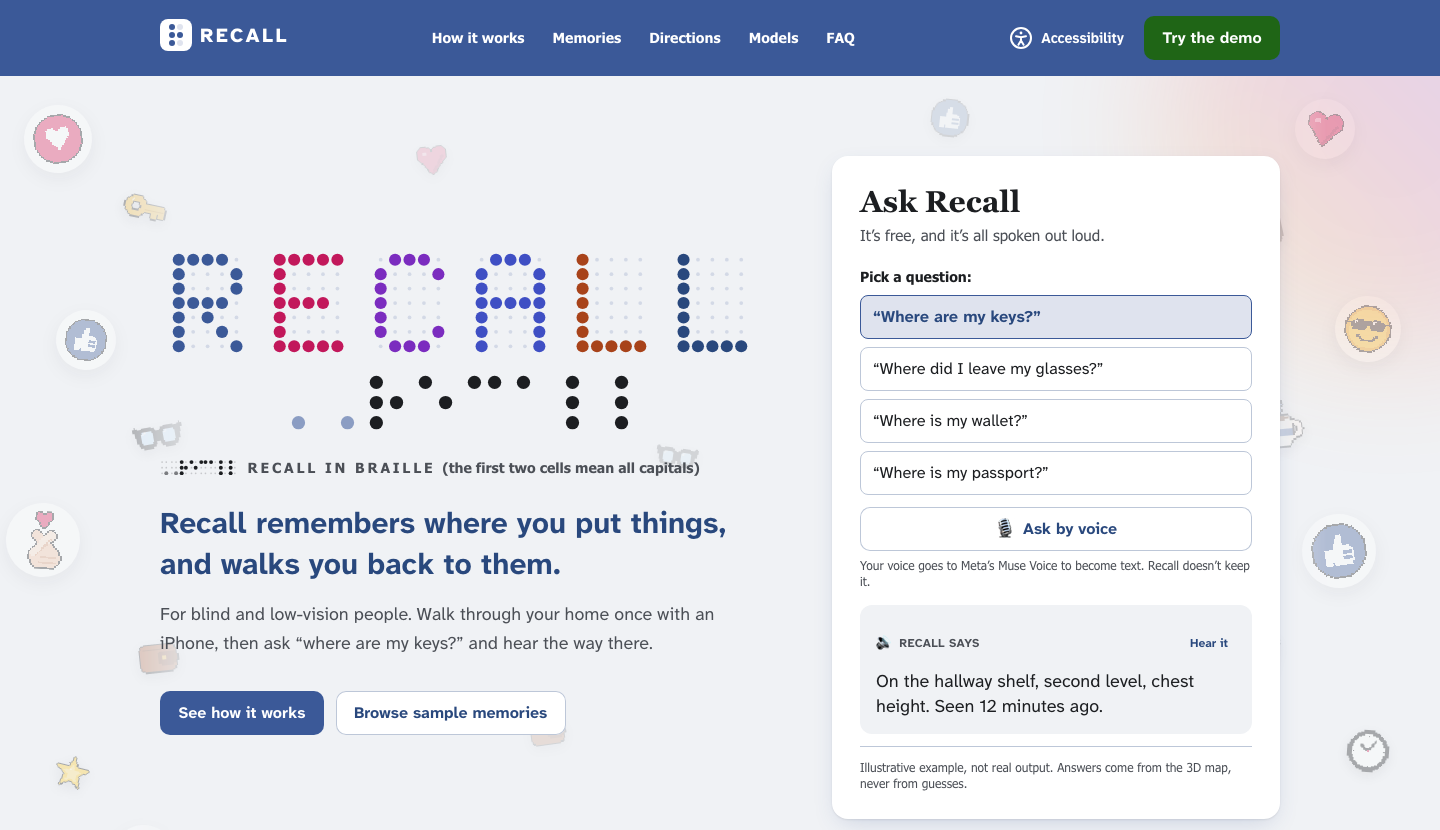
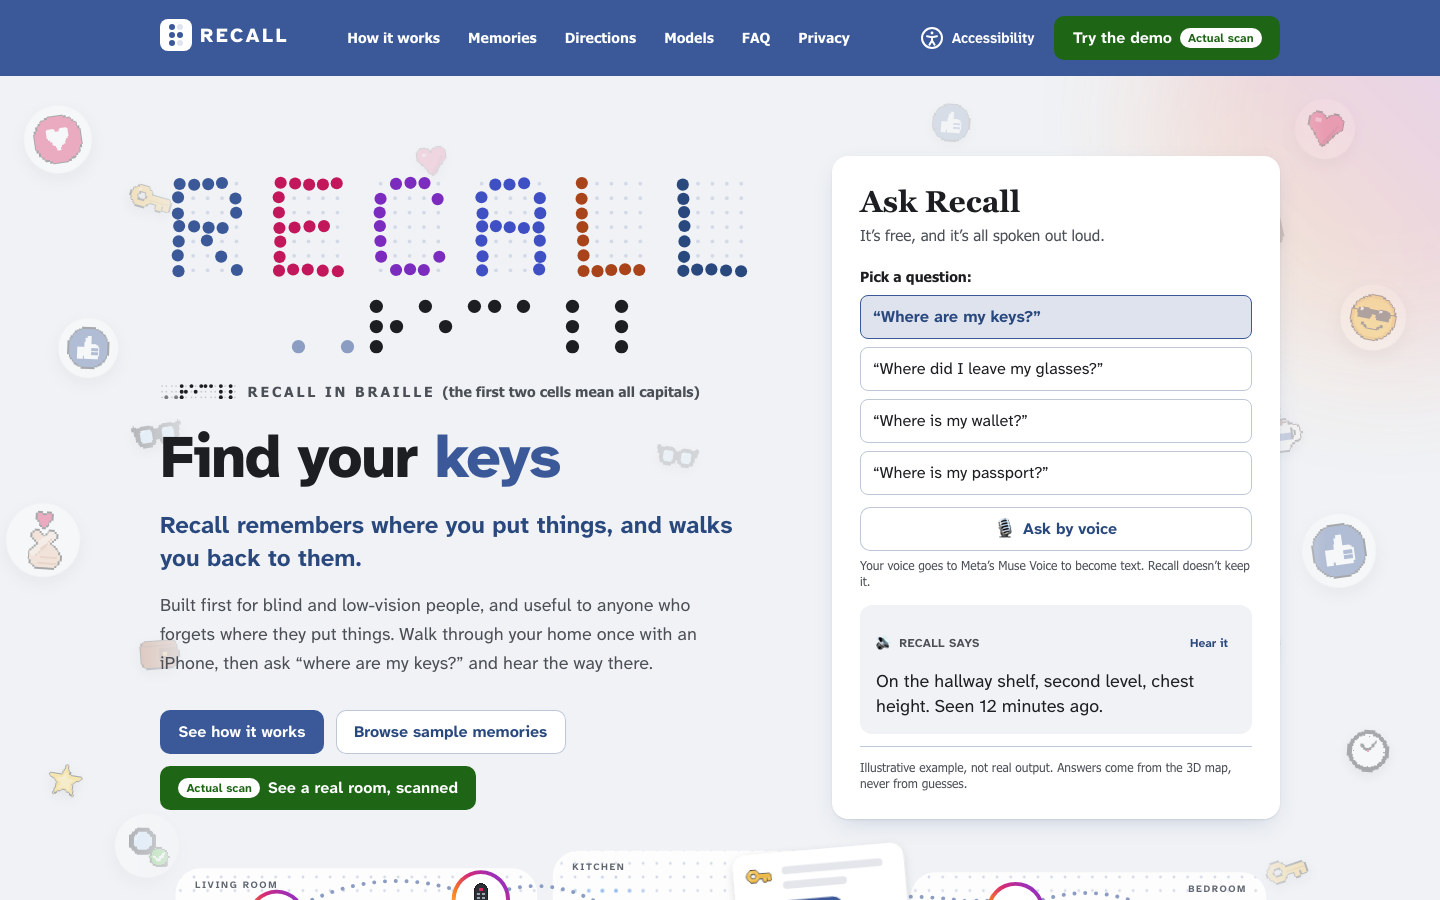
docs,feat(web): built first for blind and low-vision people, useful to anyone; Baseten badge; a fresh hero
- hero, FAQ and README: Recall is designed for the hardest case first and so
  works for anyone who misplaces things; the author's own story leads Why I
  built it
- usability stated honestly: automated checks today; the author's screen-off
  run (Screen Curtain, P0, never a substitute) and a session with blind and
  low-vision testers are planned
- README: Baseten badge, current test counts, Watch in preview, the ROS 2
  example in the repo, rate limits per key (no daily cap yet)
- docs/media/hero.png shows today's hero: Find your keys, the new intro, Try
  the demo and See a real room, scanned (Actual scan)

diff --git a/apps/web/i18n/dictionaries/en.ts b/apps/web/i18n/dictionaries/en.ts
@@ -45,7 +45,7 @@ export const en = {
     tagline: "Recall remembers where you put things, and walks you back to them.",
     brailleCaption: "RECALL in Braille",
     capitalsNote: "(the first two cells mean all capitals)",
-    intro: "For blind and low-vision people. Walk through your home once with an iPhone, then ask “where are my keys?” and hear the way there.",
+    intro: "Built first for blind and low-vision people, and useful to anyone who forgets where they put things. Walk through your home once with an iPhone, then ask “where are my keys?” and hear the way there.",
     seeHow: "See how it works",
     seeScan: "See a real room, scanned",
     actualScan: "Actual scan",
@@ -418,9 +418,9 @@ export const en = {
     items: [
       {
         q: "Who is Recall for?",
-        a: "Blind and low-vision people who want to find everyday things at home on their own, without asking someone or searching by touch.",
+        a: "Anyone who loses track of everyday things at home, and above all blind and low-vision people, for whom searching by touch or asking for help costs the most. Recall is designed for them first: every step works by voice, without looking. That is also why it is quick for everyone else.",
       },
-      { q: "Do I need special hardware?", a: "An iPhone with LiDAR: the LiDAR measures, and Meta's models build the 3D map (MapAnything) and find your things in it (SAM 3.1). Apple Watch support is coming next." },
+      { q: "Do I need special hardware?", a: "An iPhone with LiDAR: the LiDAR measures, and Meta's models build the 3D map (MapAnything) and find your things in it (SAM 3.1). The Apple Watch Ultra 4 app is in preview." },
       {
         q: "Does it work with Meta AI glasses?",
         a: "Not yet. It's planned: ask through the glasses and hear the answer in their speakers. Today Recall runs on the iPhone.",

diff --git a/README.md b/README.md
@@ -4,7 +4,8 @@
 
 <h1 align="center">RECALL</h1>
 
-<p align="center"><strong>Recall remembers where you put things, and walks you back to them.</strong></p>
+<p align="center"><strong>Recall remembers where you put things, and walks you back to them.</strong><br>
+Built first for blind and low-vision people, useful to anyone who misplaces things.</p>
 
 <p align="center"><strong>LiDAR + Meta models:</strong> the iPhone's LiDAR measures, Meta's MapAnything builds the 3D map,
 SAM 3.1 finds your things in it, and Muse Voice Transcribe + Muse Spark Open hear the question and answer it.<br>
@@ -39,6 +40,7 @@ Indie track · Theme: <strong>Build for Your World</strong></p>
   <img src="https://img.shields.io/badge/Muse_Spark_Open-Meta_model-0467df?logo=meta&logoColor=white" alt="Muse Spark Open">
   <img src="https://img.shields.io/badge/Muse_Glimmer-Meta_model-0467df?logo=meta&logoColor=white" alt="Muse Glimmer">
   <img src="https://img.shields.io/badge/Muse_Voice_Transcribe-Meta_model-0467df?logo=meta&logoColor=white" alt="Muse Voice Transcribe">
+  <img src="https://img.shields.io/badge/Baseten-serves_Muse_Spark_Open-1f2937" alt="Baseten: serves Muse Spark Open">
 </p>
 
 <p align="center">
@@ -71,7 +73,7 @@ Indie track · Theme: <strong>Build for Your World</strong></p>
 
 | Criterion | Where to look |
 |---|---|
-| **Impact** (30 %) | [Why I built it](#why-i-built-it): a true story · [What it is](#what-it-is): for blind and low-vision people, voice first · [Privacy](docs/privacy.md): the home stays on your own computer · the [tester session plan](evals/usability/) |
+| **Impact** (30 %) | [Why I built it](#why-i-built-it): a true story · [What it is](#what-it-is): built first for blind and low-vision people, for anyone who misplaces things, voice first · [Privacy](docs/privacy.md): the home stays on your own computer · the [tester session plan](evals/usability/) |
 | **Use of Meta AI tooling** (25 %) | [Only Meta models, each with one job](#how-it-works-the-meta-models): MapAnything, SAM 3.1, Muse Spark Open (Muse Glimmer on your own Mac), Muse Voice Transcribe, Muse Spark 1.1 · [Recall's three agents](#recalls-three-agents) · [Sharing with robots](#sharing-with-robots) over A2A |
 | **Demo** (25 %) | The screenshots below are real output · `make demo` replays a real run with no keys · [How to run it](#how-to-run-it) |
 | **Technical depth** (20 %) | [Architecture](docs/architecture.md) · [28 decisions](docs/decisions.md) · [Guardrails](#guardrails): geometry decides the facts, the model only phrases them · [Algorithms](#algorithms) · tests on every part ([Results so far](#results-so-far)) |
@@ -131,7 +133,7 @@ floor, furniture and walls as cells, and the things as dots: no photos of the ho
   </tr>
 </table>
 
-![The landing page hero](docs/media/hero.png)
+![The landing page: "Find your keys", RECALL in Braille, built first for blind and low-vision people and useful to anyone who forgets where they put things, the Ask Recall card, and Try the demo · Actual scan](docs/media/hero.png)
 
 ## What it is
 
@@ -220,7 +222,8 @@ evals/        questions, usability plan
 
 ## Why I built it
 
-- The question "where did I put my keys?" is asked in every home, and for someone who is blind or has low vision it can end a morning.
+- I lose things too: keys, glasses, the charger. For me it's a few minutes of searching. For someone who is blind or has low vision it can mean searching by touch, or asking for help, every day.
+- So Recall is designed for the hardest case first: no screen needed, voice in and out, directions you can follow with your eyes closed. Built that way, it's simply quicker for everyone (the curb-cut effect).
 - A home barely changes; what moves are the small things. That calls for a memory of the space, not a smarter camera.
 - The pieces now exist as open Meta models: metric 3D from photos (MapAnything), find anything by name (SAM 3.1), a language model that can call tools and phrase a short spoken answer (Muse Spark Open / Glimmer).
 - I wanted the result measured on real objects in a real flat, with the numbers published, rather than demonstrated on slides.
@@ -570,7 +573,8 @@ Measured, dated, and recorded in `docs/verification.md`. Nothing below is estima
 - **Cost, measured:** a room scan is **456** SAM 3.1 calls and **48 MB** on disk; a question is **2** Muse Spark Open calls, about **2,460 + 261 tokens**.
 - **Flat surfaces:** the geometry-only detector found **12 level patches** in the room; the two largest sit at the heights of the two measured desks.
 - **Viewer:** about 150k points, the gather animation, photo and confidence colouring, and the floor grid, height bands and surfaces as layers, on a phone and a laptop.
-- **Tests:** API 142, pipeline 45 (including a synthetic room run through the whole pipeline), website 164 (accessibility with axe, WCAG 2.2 AA, reduced motion, no-JavaScript, and keyboard-only and 200 % text usability); on the iPhone, 123 unit tests and 27 UI tests: accessibility audits and usability tasks done with VoiceOver labels at default and largest text.
+- **Tests (2 November):** API 202 (including Schemathesis against the spec), pipeline 59 (including a synthetic room run through the whole pipeline), website 190 (accessibility with axe, WCAG 2.2 AA, reduced motion, no-JavaScript, keyboard-only and 200 % text usability, security headers); on the iPhone, 182 unit tests and 31 UI tests: accessibility audits and usability tasks done with VoiceOver labels at default and largest text; the Watch app builds.
+- **Usability, honestly:** the checks above are automated. In person, the author's screen-off run (VoiceOver Screen Curtain: the screen stays black) is planned, and a session with blind and low-vision testers is planned; its plan is ready in `evals/usability/`.
 
 **Planned evaluation:** median position error against hand-measured positions, questions answered correctly, Verifier precision, and time to find an object by touch versus with Recall, scored without AI; the dated table will live in `evals/results.md`. The session plan for a blind or low-vision tester is in `evals/usability/`.
 
@@ -694,12 +698,12 @@ Watch app all run.
 
 Planned next, not built or not working yet (updated before submission; removed if everything works):
 
-- The Apple Watch app (taps and Digital Crown repeat) and Meta AI glasses.
-- The ROS 2 robot example skill (in progress).
+- The Apple Watch app on a real Ultra 4 (built and unit-tested, in preview) and Meta AI glasses (planned).
+- A physical robot running the ROS 2 example (the example and the robot package are in the repo).
 - The tape-measured 20 cm accuracy check with the phone's depth and poses.
 - Quantitative evaluations and the Verifier precision figure.
-- The usability session with a blind or low-vision tester (plan ready in `evals/usability/`).
-- Daily spend caps on model calls (today only the website's voice route is rate-limited).
+- The usability session with blind and low-vision testers (plan ready in `evals/usability/`), and the author's screen-off run.
+- Daily spend caps on model calls (the API and the website's voice route are rate-limited per key or visitor; there is no daily cap yet).
 - The 3-minute demo video.
 
 ## Contributing

diff --git a/evals/usability/README.md b/evals/usability/README.md
@@ -8,6 +8,15 @@ The automated usability tests (`apps/ios/RecallUITests/UsabilityTests.swift`, `a
 that each task can be done with VoiceOver labels and the keyboard within a few actions. This session checks what no
 test can: whether it works for a person.
 
+## Before a blind or low-vision tester is available
+
+The author runs the same five tasks with the screen off: VoiceOver on, then **Screen Curtain** (three-finger
+triple-tap), so the screen stays black and only speech and touch are left. Same tasks, same timing, recorded with
+`results-template.md` as participant **P0 (sighted, screen off)**.
+
+This is a check that nothing depends on looking. It is **not** a substitute for a blind or low-vision tester, and it
+is never reported as one.
+
 ## Files
 
 | File | Use |
